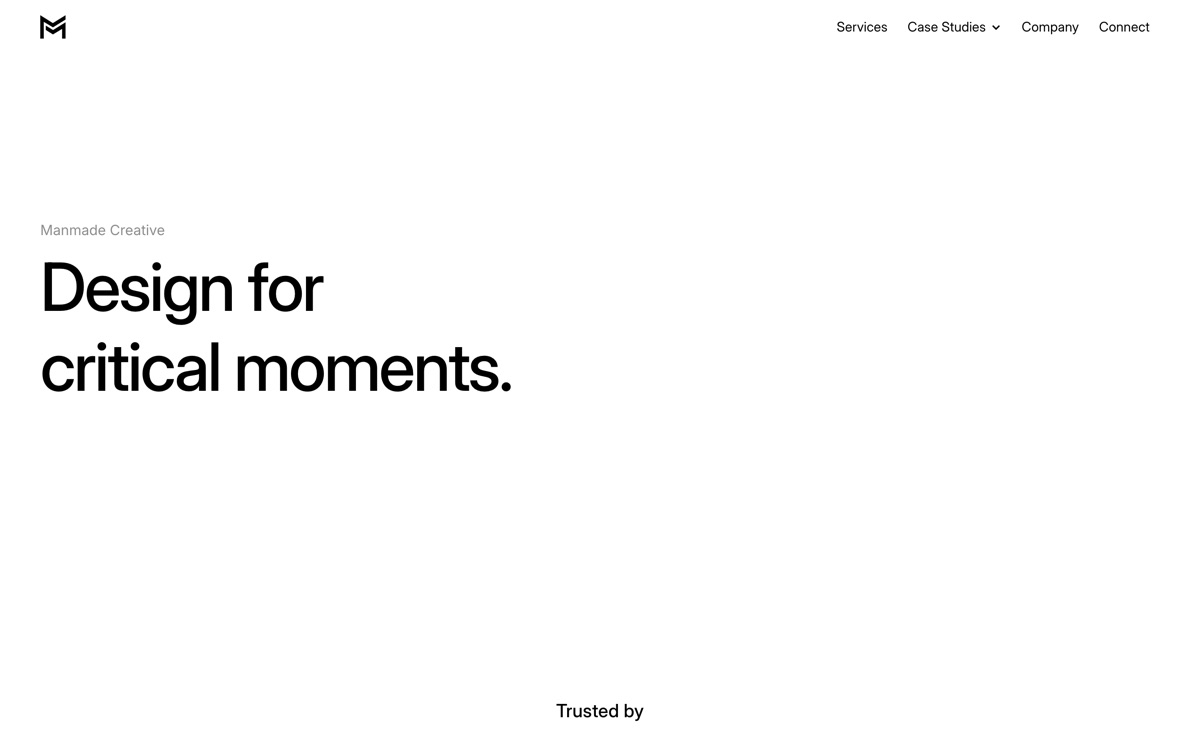
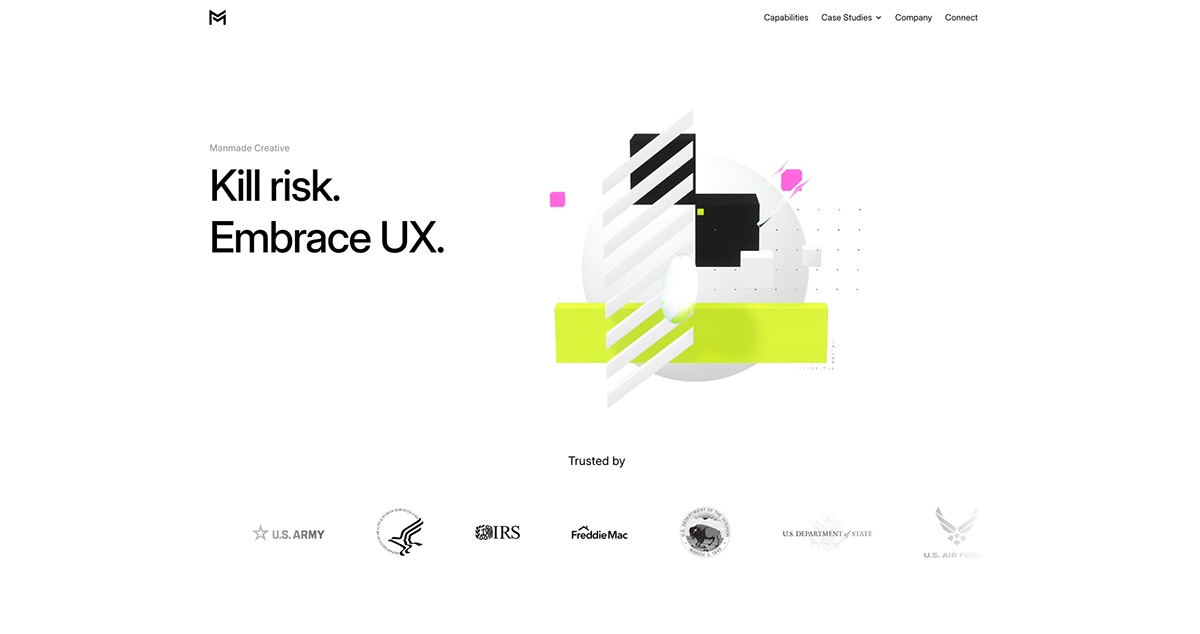
Use the supplied Manmade Creative thumbnail
Shows the headline and the client logo row rather than an empty upper
fold. Cache-busted, filename unchanged.

diff --git a/portfolio/index.html b/portfolio/index.html
@@ -29,7 +29,7 @@
 <link rel="apple-touch-icon" sizes="180x180" href="/apple-touch-icon.png">
 
 <link rel="preload" href="/fonts/321e9509-5438-4ffc-8fdd-b63cb527ed07.woff2" as="font" type="font/woff2" crossorigin>
-<link rel="stylesheet" href="/styles.css?v=20260805c">
+<link rel="stylesheet" href="/styles.css?v=20260805d">
 </head>
 <body>
 
@@ -100,8 +100,8 @@
 
       <li class="pf-item reveal">
         <a class="pf-shot" href="https://manmadecreative.com/" target="_blank" rel="noopener">
-          <img src="img/manmadecreative.jpg" width="1200" height="750" loading="lazy" decoding="async"
-               alt="Manmade Creative homepage: the headline Design for critical moments.">
+          <img src="img/manmadecreative.jpg?v=2" width="1200" height="634" loading="lazy" decoding="async"
+               alt="Manmade Creative homepage: the headline Kill risk. Embrace UX., beside an abstract graphic, above client logos including the U.S. Army, IRS and Department of State.">
         </a>
         <div class="pf-copy">
           <h2>Manmade Creative</h2>
@@ -209,6 +209,6 @@
   </div>
 </footer>
 
-<script src="/app.js?v=20260805c"></script>
+<script src="/app.js?v=20260805d"></script>
 </body>
 </html>

diff --git a/index.html b/index.html
@@ -51,7 +51,7 @@
 
 <!-- Assets -->
 <link rel="preload" href="fonts/321e9509-5438-4ffc-8fdd-b63cb527ed07.woff2" as="font" type="font/woff2" crossorigin>
-<link rel="stylesheet" href="styles.css?v=20260805c">
+<link rel="stylesheet" href="styles.css?v=20260805d">
 <link rel="dns-prefetch" href="https://www.googletagmanager.com">
 
 <!-- Google Analytics -->
@@ -595,6 +595,6 @@
   </div>
 </footer>
 
-<script src="app.js?v=20260805c"></script>
+<script src="app.js?v=20260805d"></script>
 </body>
 </html>
